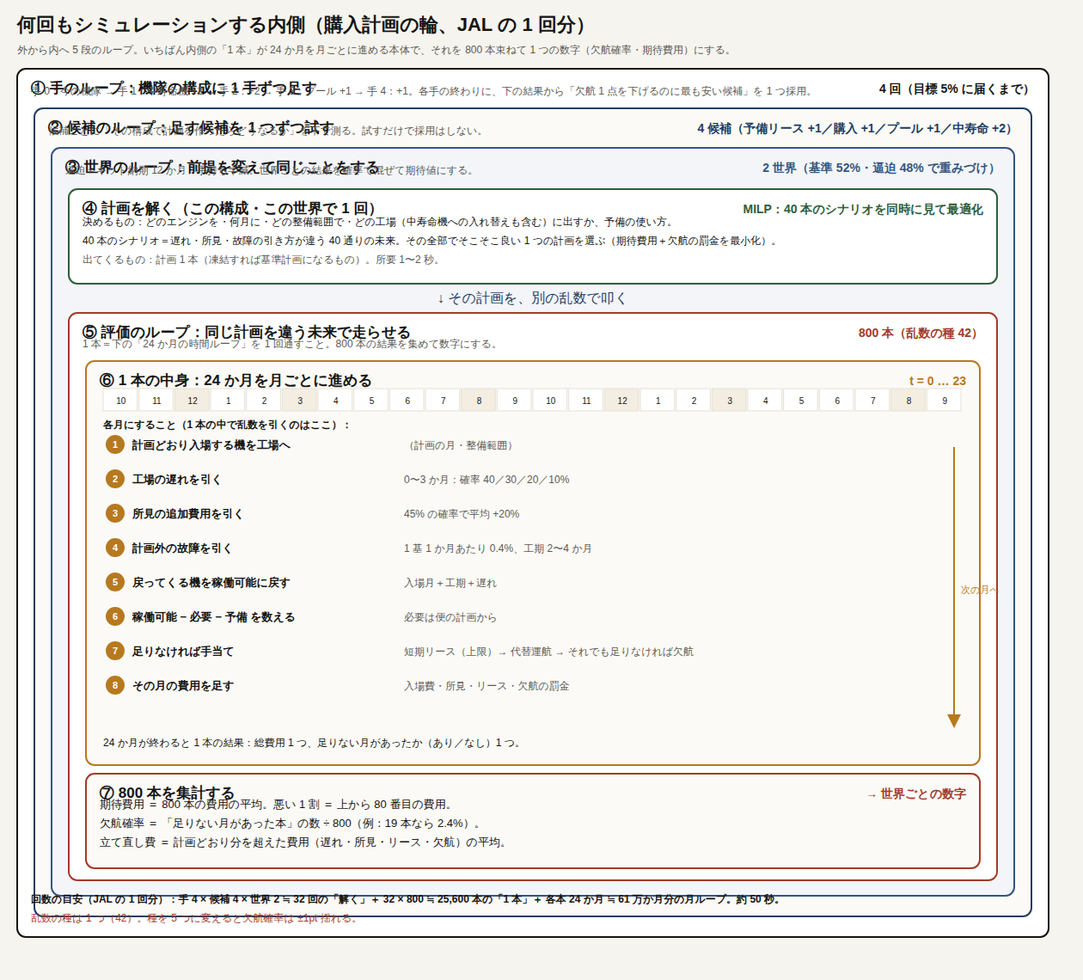
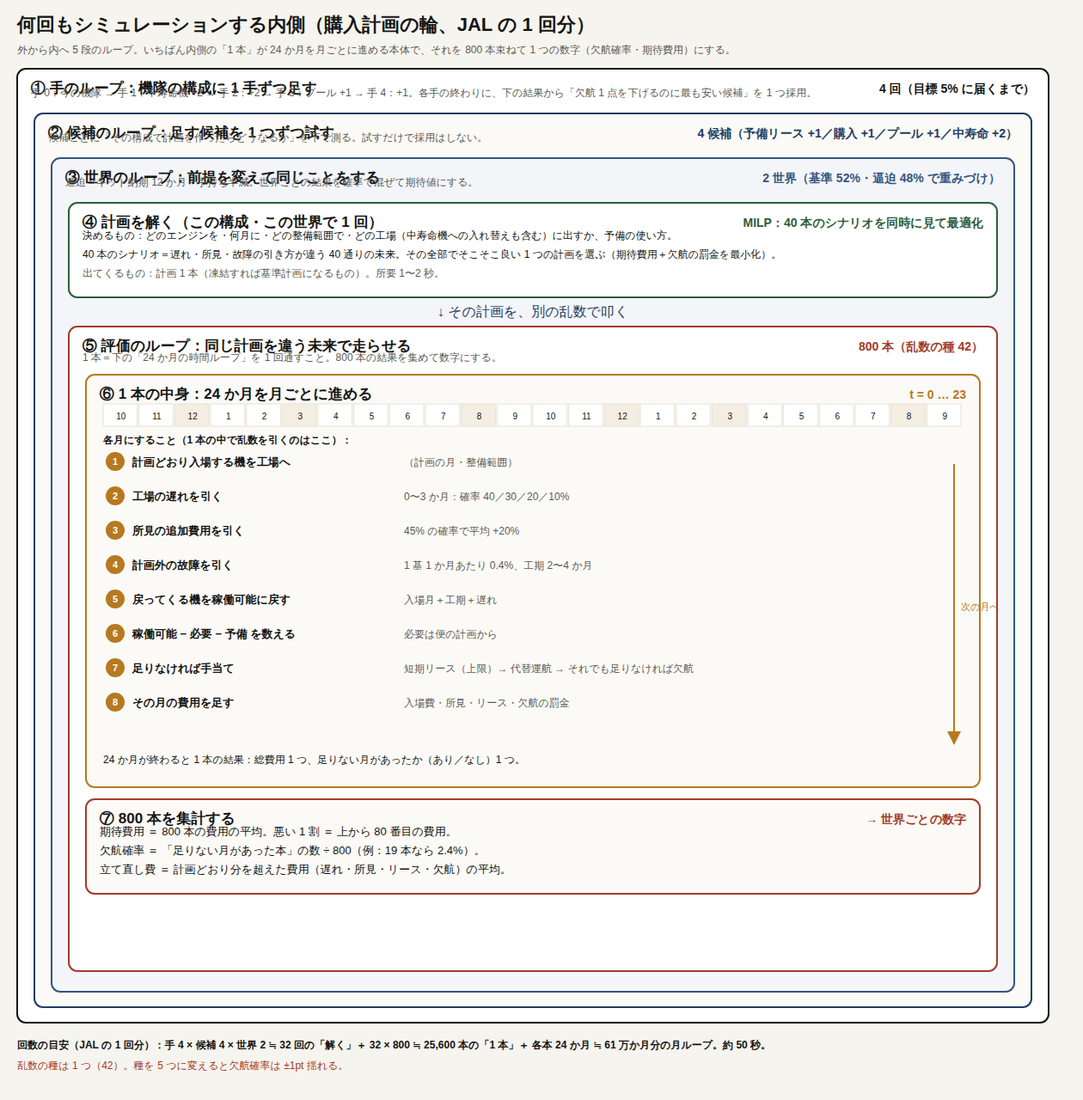
handover: inner-loop figure with frame titles no longer overlapping
Claude-Session: https://claude.ai/code/session_01C7dB8NjrbvR4TfsX9qG3hw

Changed region(s): [[0.0, 0.0, 0.9595, 0.9825]]

diff --git a/examples/engine-shop-selection-mc/handover/03_reports/sim_inner.html b/examples/engine-shop-selection-mc/handover/03_reports/sim_inner.html
@@ -1,1 +1,1 @@
-<!doctype html><html lang="ja"><head><meta charset="utf-8"><style>body{margin:0;background:#f6f4ee}</style></head><body><svg xmlns="http://www.w3.org/2000/svg" viewBox="0 0 1240 1120" width="1240" height="1120" font-family="IBM Plex Sans JP, sans-serif"><rect width="1240" height="1120" fill="#f6f4ee"/><defs><marker id="ah" markerWidth="8" markerHeight="8" refX="7" refY="4" orient="auto"><path d="M0,0 L8,4 L0,8 z" fill="#b7791f"/></marker></defs><text x="20" y="36" font-size="22" fill="#141413" text-anchor="start" font-weight="700">何回もシミュレーションする内側（購入計画の輪、JAL の 1 回分）</text><text x="20" y="62" font-size="12" fill="#5b5a55" text-anchor="start" >外から内へ 5 段のループ。いちばん内側の「1 本」が 24 か月を月ごとに進める本体で、それを 800 本束ねて 1 つの数字（欠航確率・期待費用）にする。</text><rect x="20" y="80" width="1200" height="1010" rx="10" fill="#ffffff" stroke="#141413" stroke-width="2"/><text x="36" y="108" font-size="17" fill="#141413" text-anchor="start" font-weight="700">① 手のループ：機隊の構成に 1 手ずつ足す</text><text x="1204" y="108" font-size="14" fill="#141413" text-anchor="end" font-weight="700">4 回（目標 5% に届くまで）</text><text x="36" y="110" font-size="12" fill="#5b5a55" text-anchor="start" >手 0：今の機隊 → 手 1：中寿命機 +2 → 手 2：+2 → 手 3：プール +1 → 手 4：+1。各手の終わりに、下の結果から「欠航 1 点を下げるのに最も安い候補」を 1 つ採用。</text><rect x="40" y="126" width="1160" height="940" rx="10" fill="#fbfaf6" stroke="#1f3d63" stroke-width="2"/><text x="56" y="154" font-size="17" fill="#141413" text-anchor="start" font-weight="700">② 候補のループ：足す候補を 1 つずつ試す</text><text x="1184" y="154" font-size="14" fill="#1f3d63" text-anchor="end" font-weight="700">4 候補（予備リース +1／購入 +1／プール +1／中寿命 +2）</text><text x="56" y="156" font-size="12" fill="#5b5a55" text-anchor="start" >候補ごとに「その構成で計画を作ったらどうなるか」を下で測る。試すだけで採用はしない。</text><rect x="60" y="172" width="1120" height="870" rx="10" fill="#f3f5f9" stroke="#35557f" stroke-width="2"/><text x="76" y="200" font-size="17" fill="#141413" text-anchor="start" font-weight="700">③ 世界のループ：前提を変えて同じことをする</text><text x="1164" y="200" font-size="14" fill="#35557f" text-anchor="end" font-weight="700">2 世界（基準 52%・逼迫 48% で重みづけ）</text><text x="76" y="202" font-size="12" fill="#5b5a55" text-anchor="start" >逼迫＝キット納期 12 か月・手持ち半減。世界ごとの結果を確率で混ぜて期待値にする。</text><rect x="80" y="220" width="1080" height="110" rx="10" fill="#ffffff" stroke="#2f5d3a" stroke-width="2"/><text x="96" y="248" font-size="17" fill="#141413" text-anchor="start" font-weight="700">④ 計画を解く（この構成・この世界で 1 回）</text><text x="1144" y="248" font-size="14" fill="#2f5d3a" text-anchor="end" font-weight="700">MILP：40 本のシナリオを同時に見て最適化</text><text x="96" y="262" font-size="12" fill="#141413" text-anchor="start" >決めるもの：どのエンジンを・何月に・どの整備範囲で・どの工場（中寿命機への入れ替えも含む）に出すか、予備の使い方。</text><text x="96" y="284" font-size="12" fill="#141413" text-anchor="start" >40 本のシナリオ＝遅れ・所見・故障の引き方が違う 40 通りの未来。その全部でそこそこ良い 1 つの計画を選ぶ（期待費用＋欠航の罰金を最小化）。</text><text x="96" y="306" font-size="12" fill="#5b5a55" text-anchor="start" >出てくるもの：計画 1 本（凍結すれば基準計画になるもの）。所要 1〜2 秒。</text><text x="620" y="352" font-size="16" fill="#1f3d63" text-anchor="middle">↓ その計画を、別の乱数で叩く</text><rect x="80" y="364" width="1080" height="660" rx="10" fill="#ffffff" stroke="#a23b2a" stroke-width="2"/><text x="96" y="392" font-size="17" fill="#141413" text-anchor="start" font-weight="700">⑤ 評価のループ：同じ計画を違う未来で走らせる</text><text x="1144" y="392" font-size="14" fill="#a23b2a" text-anchor="end" font-weight="700">800 本（乱数の種 42）</text><text x="96" y="404" font-size="12" fill="#5b5a55" text-anchor="start" >1 本＝下の「24 か月の時間ループ」を 1 回通すこと。800 本の結果を集めて数字にする。</text><rect x="100" y="420" width="1040" height="470" rx="10" fill="#fbfaf6" stroke="#b7791f" stroke-width="2"/><text x="116" y="448" font-size="17" fill="#141413" text-anchor="start" font-weight="700">⑥ 1 本の中身：24 か月を月ごとに進める</text><text x="1124" y="448" font-size="14" fill="#b7791f" text-anchor="end" font-weight="700">t = 0 … 23</text><rect x="120.0" y="452" width="39.666666666666664" height="26" fill="#ffffff" stroke="#e5e1d6"/><text x="140.83333333333334" y="470" font-size="10" fill="#141413" text-anchor="middle" >10</text><rect x="161.66666666666666" y="452" width="39.666666666666664" height="26" fill="#ffffff" stroke="#e5e1d6"/><text x="182.5" y="470" font-size="10" fill="#141413" text-anchor="middle" >11</text><rect x="203.33333333333331" y="452" width="39.666666666666664" height="26" fill="#f3ede2" stroke="#e5e1d6"/><text x="224.16666666666666" y="470" font-size="10" fill="#141413" text-anchor="middle" >12</text><rect x="245.0" y="452" width="39.666666666666664" height="26" fill="#ffffff" stroke="#e5e1d6"/><text x="265.8333333333333" y="470" font-size="10" fill="#141413" text-anchor="middle" >1</text><rect x="286.66666666666663" y="452" width="39.666666666666664" height="26" fill="#ffffff" stroke="#e5e1d6"/><text x="307.49999999999994" y="470" font-size="10" fill="#141413" text-anchor="middle" >2</text><rect x="328.3333333333333" y="452" width="39.666666666666664" height="26" fill="#f3ede2" stroke="#e5e1d6"/><text x="349.16666666666663" y="470" font-size="10" fill="#141413" text-anchor="middle" >3</text><rect x="370.0" y="452" width="39.666666666666664" height="26" fill="#ffffff" stroke="#e5e1d6"/><text x="390.8333333333333" y="470" font-size="10" fill="#141413" text-anchor="middle" >4</text><rect x="411.66666666666663" y="452" width="39.666666666666664" height="26" fill="#ffffff" stroke="#e5e1d6"/><text x="432.49999999999994" y="470" font-size="10" fill="#141413" text-anchor="middle" >5</text><rect x="453.3333333333333" y="452" width="39.666666666666664" height="26" fill="#ffffff" stroke="#e5e1d6"/><text x="474.16666666666663" y="470" font-size="10" fill="#141413" text-anchor="middle" >6</text><rect x="495.0" y="452" width="39.666666666666664" height="26" fill="#ffffff" stroke="#e5e1d6"/><text x="515.8333333333334" y="470" font-size="10" fill="#141413" text-anchor="middle" >7</text><rect x="536.6666666666666" y="452" width="39.666666666666664" height="26" fill="#f3ede2" stroke="#e5e1d6"/><text x="557.5" y="470" font-size="10" fill="#141413" text-anchor="middle" >8</text><rect x="578.3333333333333" y="452" width="39.666666666666664" height="26" fill="#ffffff" stroke="#e5e1d6"/><text x="599.1666666666666" y="470" font-size="10" fill="#141413" text-anchor="middle" >9</text><rect x="620.0" y="452" width="39.666666666666664" height="26" fill="#ffffff" stroke="#e5e1d6"/><text x="640.8333333333334" y="470" font-size="10" fill="#141413" text-anchor="middle" >10</text><rect x="661.6666666666666" y="452" width="39.666666666666664" height="26" fill="#ffffff" stroke="#e5e1d6"/><text x="682.5" y="470" font-size="10" fill="#141413" text-anchor="middle" >11</text><rect x="703.3333333333333" y="452" width="39.666666666666664" height="26" fill="#f3ede2" stroke="#e5e1d6"/><text x="724.1666666666666" y="470" font-size="10" fill="#141413" text-anchor="middle" >12</text><rect x="745.0" y="452" width="39.666666666666664" height="26" fill="#ffffff" stroke="#e5e1d6"/><text x="765.8333333333334" y="470" font-size="10" fill="#141413" text-anchor="middle" >1</text><rect x="786.6666666666666" y="452" width="39.666666666666664" height="26" fill="#ffffff" stroke="#e5e1d6"/><text x="807.5" y="470" font-size="10" fill="#141413" text-anchor="middle" >2</text><rect x="828.3333333333333" y="452" width="39.666666666666664" height="26" fill="#f3ede2" stroke="#e5e1d6"/><text x="849.1666666666666" y="470" font-size="10" fill="#141413" text-anchor="middle" >3</text><rect x="870.0" y="452" width="39.666666666666664" height="26" fill="#ffffff" stroke="#e5e1d6"/><text x="890.8333333333334" y="470" font-size="10" fill="#141413" text-anchor="middle" >4</text><rect x="911.6666666666666" y="452" width="39.666666666666664" height="26" fill="#ffffff" stroke="#e5e1d6"/><text x="932.5" y="470" font-size="10" fill="#141413" text-anchor="middle" >5</text><rect x="953.3333333333333" y="452" width="39.666666666666664" height="26" fill="#ffffff" stroke="#e5e1d6"/><text x="974.1666666666666" y="470" font-size="10" fill="#141413" text-anchor="middle" >6</text><rect x="995.0" y="452" width="39.666666666666664" height="26" fill="#ffffff" stroke="#e5e1d6"/><text x="1015.8333333333334" y="470" font-size="10" fill="#141413" text-anchor="middle" >7</text><rect x="1036.6666666666665" y="452" width="39.666666666666664" height="26" fill="#f3ede2" stroke="#e5e1d6"/><text x="1057.4999999999998" y="470" font-size="10" fill="#141413" text-anchor="middle" >8</text><rect x="1078.3333333333333" y="452" width="39.666666666666664" height="26" fill="#ffffff" stroke="#e5e1d6"/><text x="1099.1666666666665" y="470" font-size="10" fill="#141413" text-anchor="middle" >9</text><text x="120" y="498" font-size="12" fill="#141413" text-anchor="start" font-weight="700">各月にすること（1 本の中で乱数を引くのはここ）：</text><circle cx="134" cy="517" r="11" fill="#b7791f"/><text x="134" y="521" font-size="11" fill="#fff" text-anchor="middle" font-weight="700">1</text><text x="154" y="522" font-size="13" fill="#141413" text-anchor="start" font-weight="700">計画どおり入場する機を工場へ</text><text x="470" y="522" font-size="12" fill="#5b5a55" text-anchor="start" >（計画の月・整備範囲）</text><circle cx="134" cy="557" r="11" fill="#b7791f"/><text x="134" y="561" font-size="11" fill="#fff" text-anchor="middle" font-weight="700">2</text><text x="154" y="562" font-size="13" fill="#141413" text-anchor="start" font-weight="700">工場の遅れを引く</text><text x="470" y="562" font-size="12" fill="#5b5a55" text-anchor="start" >0〜3 か月：確率 40／30／20／10%</text><circle cx="134" cy="597" r="11" fill="#b7791f"/><text x="134" y="601" font-size="11" fill="#fff" text-anchor="middle" font-weight="700">3</text><text x="154" y="602" font-size="13" fill="#141413" text-anchor="start" font-weight="700">所見の追加費用を引く</text><text x="470" y="602" font-size="12" fill="#5b5a55" text-anchor="start" >45% の確率で平均 +20%</text><circle cx="134" cy="637" r="11" fill="#b7791f"/><text x="134" y="641" font-size="11" fill="#fff" text-anchor="middle" font-weight="700">4</text><text x="154" y="642" font-size="13" fill="#141413" text-anchor="start" font-weight="700">計画外の故障を引く</text><text x="470" y="642" font-size="12" fill="#5b5a55" text-anchor="start" >1 基 1 か月あたり 0.4%、工期 2〜4 か月</text><circle cx="134" cy="677" r="11" fill="#b7791f"/><text x="134" y="681" font-size="11" fill="#fff" text-anchor="middle" font-weight="700">5</text><text x="154" y="682" font-size="13" fill="#141413" text-anchor="start" font-weight="700">戻ってくる機を稼働可能に戻す</text><text x="470" y="682" font-size="12" fill="#5b5a55" text-anchor="start" >入場月＋工期＋遅れ</text><circle cx="134" cy="717" r="11" fill="#b7791f"/><text x="134" y="721" font-size="11" fill="#fff" text-anchor="middle" font-weight="700">6</text><text x="154" y="722" font-size="13" fill="#141413" text-anchor="start" font-weight="700">稼働可能 − 必要 − 予備 を数える</text><text x="470" y="722" font-size="12" fill="#5b5a55" text-anchor="start" >必要は便の計画から</text><circle cx="134" cy="757" r="11" fill="#b7791f"/><text x="134" y="761" font-size="11" fill="#fff" text-anchor="middle" font-weight="700">7</text><text x="154" y="762" font-size="13" fill="#141413" text-anchor="start" font-weight="700">足りなければ手当て</text><text x="470" y="762" font-size="12" fill="#5b5a55" text-anchor="start" >短期リース（上限）→ 代替運航 → それでも足りなければ欠航</text><circle cx="134" cy="797" r="11" fill="#b7791f"/><text x="134" y="801" font-size="11" fill="#fff" text-anchor="middle" font-weight="700">8</text><text x="154" y="802" font-size="13" fill="#141413" text-anchor="start" font-weight="700">その月の費用を足す</text><text x="470" y="802" font-size="12" fill="#5b5a55" text-anchor="start" >入場費・所見・リース・欠航の罰金</text><path d="M 1110,520 L 1110,845" stroke="#b7791f" stroke-width="2" fill="none" marker-end="url(#ah)"/><text x="1118" y="690" font-size="11" fill="#b7791f" text-anchor="start" >次の月へ</text><text x="120" y="868" font-size="12" fill="#141413" text-anchor="start" >24 か月が終わると 1 本の結果：総費用 1 つ、足りない月があったか（あり／なし）1 つ。</text><rect x="100" y="900" width="1040" height="110" rx="10" fill="#fbfaf6" stroke="#a23b2a" stroke-width="2"/><text x="116" y="928" font-size="17" fill="#141413" text-anchor="start" font-weight="700">⑦ 800 本を集計する</text><text x="1124" y="928" font-size="14" fill="#a23b2a" text-anchor="end" font-weight="700">→ 世界ごとの数字</text><text x="116" y="940" font-size="13" fill="#141413" text-anchor="start" >期待費用 ＝ 800 本の費用の平均。悪い 1 割 ＝ 上から 80 番目の費用。</text><text x="116" y="962" font-size="13" fill="#141413" text-anchor="start" >欠航確率 ＝ 「足りない月があった本」の数 ÷ 800（例：19 本なら 2.4%）。</text><text x="116" y="984" font-size="13" fill="#141413" text-anchor="start" >立て直し費 ＝ 計画どおり分を超えた費用（遅れ・所見・リース・欠航）の平均。</text><text x="36" y="1050" font-size="12" fill="#141413" text-anchor="start" font-weight="700">回数の目安（JAL の 1 回分）：手 4 × 候補 4 × 世界 2 ≒ 32 回の「解く」＋ 32 × 800 ≒ 25,600 本の「1 本」＋ 各本 24 か月 ≒ 61 万か月分の月ループ。約 50 秒。</text><text x="36" y="1072" font-size="12" fill="#a23b2a" text-anchor="start" >乱数の種は 1 つ（42）。種を 5 つに変えると欠航確率は ±1pt 揺れる。</text></svg></body></html>
+<!doctype html><html lang="ja"><head><meta charset="utf-8"><style>body{margin:0;background:#f6f4ee}</style></head><body><svg xmlns="http://www.w3.org/2000/svg" viewBox="0 0 1240 1260" width="1240" height="1260" font-family="IBM Plex Sans JP, sans-serif"><rect width="1240" height="1260" fill="#f6f4ee"/><defs><marker id="ah" markerWidth="8" markerHeight="8" refX="7" refY="4" orient="auto"><path d="M0,0 L8,4 L0,8 z" fill="#b7791f"/></marker></defs><text x="20" y="36" font-size="22" fill="#141413" text-anchor="start" font-weight="700">何回もシミュレーションする内側（購入計画の輪、JAL の 1 回分）</text><text x="20" y="62" font-size="12" fill="#5b5a55" text-anchor="start" >外から内へ 5 段のループ。いちばん内側の「1 本」が 24 か月を月ごとに進める本体で、それを 800 本束ねて 1 つの数字（欠航確率・期待費用）にする。</text><rect x="20" y="80" width="1200" height="1110" rx="10" fill="#ffffff" stroke="#141413" stroke-width="2"/><text x="36" y="108" font-size="17" fill="#141413" text-anchor="start" font-weight="700">① 手のループ：機隊の構成に 1 手ずつ足す</text><text x="1204" y="108" font-size="14" fill="#141413" text-anchor="end" font-weight="700">4 回（目標 5% に届くまで）</text><text x="36" y="112" font-size="12" fill="#5b5a55" text-anchor="start" >手 0：今の機隊 → 手 1：中寿命機 +2 → 手 2：+2 → 手 3：プール +1 → 手 4：+1。各手の終わりに、下の結果から「欠航 1 点を下げるのに最も安い候補」を 1 つ採用。</text><rect x="40" y="132" width="1160" height="1040" rx="10" fill="#fbfaf6" stroke="#1f3d63" stroke-width="2"/><text x="56" y="160" font-size="17" fill="#141413" text-anchor="start" font-weight="700">② 候補のループ：足す候補を 1 つずつ試す</text><text x="1184" y="160" font-size="14" fill="#1f3d63" text-anchor="end" font-weight="700">4 候補（予備リース +1／購入 +1／プール +1／中寿命 +2）</text><text x="56" y="164" font-size="12" fill="#5b5a55" text-anchor="start" >候補ごとに「その構成で計画を作ったらどうなるか」を下で測る。試すだけで採用はしない。</text><rect x="60" y="184" width="1120" height="970" rx="10" fill="#f3f5f9" stroke="#35557f" stroke-width="2"/><text x="76" y="212" font-size="17" fill="#141413" text-anchor="start" font-weight="700">③ 世界のループ：前提を変えて同じことをする</text><text x="1164" y="212" font-size="14" fill="#35557f" text-anchor="end" font-weight="700">2 世界（基準 52%・逼迫 48% で重みづけ）</text><text x="76" y="216" font-size="12" fill="#5b5a55" text-anchor="start" >逼迫＝キット納期 12 か月・手持ち半減。世界ごとの結果を確率で混ぜて期待値にする。</text><rect x="80" y="236" width="1080" height="110" rx="10" fill="#ffffff" stroke="#2f5d3a" stroke-width="2"/><text x="96" y="264" font-size="17" fill="#141413" text-anchor="start" font-weight="700">④ 計画を解く（この構成・この世界で 1 回）</text><text x="1144" y="264" font-size="14" fill="#2f5d3a" text-anchor="end" font-weight="700">MILP：40 本のシナリオを同時に見て最適化</text><text x="96" y="278" font-size="12" fill="#141413" text-anchor="start" >決めるもの：どのエンジンを・何月に・どの整備範囲で・どの工場（中寿命機への入れ替えも含む）に出すか、予備の使い方。</text><text x="96" y="300" font-size="12" fill="#141413" text-anchor="start" >40 本のシナリオ＝遅れ・所見・故障の引き方が違う 40 通りの未来。その全部でそこそこ良い 1 つの計画を選ぶ（期待費用＋欠航の罰金を最小化）。</text><text x="96" y="322" font-size="12" fill="#5b5a55" text-anchor="start" >出てくるもの：計画 1 本（凍結すれば基準計画になるもの）。所要 1〜2 秒。</text><text x="620" y="368" font-size="16" fill="#1f3d63" text-anchor="middle">↓ その計画を、別の乱数で叩く</text><rect x="80" y="380" width="1080" height="750" rx="10" fill="#ffffff" stroke="#a23b2a" stroke-width="2"/><text x="96" y="408" font-size="17" fill="#141413" text-anchor="start" font-weight="700">⑤ 評価のループ：同じ計画を違う未来で走らせる</text><text x="1144" y="408" font-size="14" fill="#a23b2a" text-anchor="end" font-weight="700">800 本（乱数の種 42）</text><text x="96" y="420" font-size="12" fill="#5b5a55" text-anchor="start" >1 本＝下の「24 か月の時間ループ」を 1 回通すこと。800 本の結果を集めて数字にする。</text><rect x="100" y="436" width="1040" height="480" rx="10" fill="#fbfaf6" stroke="#b7791f" stroke-width="2"/><text x="116" y="464" font-size="17" fill="#141413" text-anchor="start" font-weight="700">⑥ 1 本の中身：24 か月を月ごとに進める</text><text x="1124" y="464" font-size="14" fill="#b7791f" text-anchor="end" font-weight="700">t = 0 … 23</text><rect x="120.0" y="470" width="39.666666666666664" height="26" fill="#ffffff" stroke="#e5e1d6"/><text x="140.83333333333334" y="488" font-size="10" fill="#141413" text-anchor="middle" >10</text><rect x="161.66666666666666" y="470" width="39.666666666666664" height="26" fill="#ffffff" stroke="#e5e1d6"/><text x="182.5" y="488" font-size="10" fill="#141413" text-anchor="middle" >11</text><rect x="203.33333333333331" y="470" width="39.666666666666664" height="26" fill="#f3ede2" stroke="#e5e1d6"/><text x="224.16666666666666" y="488" font-size="10" fill="#141413" text-anchor="middle" >12</text><rect x="245.0" y="470" width="39.666666666666664" height="26" fill="#ffffff" stroke="#e5e1d6"/><text x="265.8333333333333" y="488" font-size="10" fill="#141413" text-anchor="middle" >1</text><rect x="286.66666666666663" y="470" width="39.666666666666664" height="26" fill="#ffffff" stroke="#e5e1d6"/><text x="307.49999999999994" y="488" font-size="10" fill="#141413" text-anchor="middle" >2</text><rect x="328.3333333333333" y="470" width="39.666666666666664" height="26" fill="#f3ede2" stroke="#e5e1d6"/><text x="349.16666666666663" y="488" font-size="10" fill="#141413" text-anchor="middle" >3</text><rect x="370.0" y="470" width="39.666666666666664" height="26" fill="#ffffff" stroke="#e5e1d6"/><text x="390.8333333333333" y="488" font-size="10" fill="#141413" text-anchor="middle" >4</text><rect x="411.66666666666663" y="470" width="39.666666666666664" height="26" fill="#ffffff" stroke="#e5e1d6"/><text x="432.49999999999994" y="488" font-size="10" fill="#141413" text-anchor="middle" >5</text><rect x="453.3333333333333" y="470" width="39.666666666666664" height="26" fill="#ffffff" stroke="#e5e1d6"/><text x="474.16666666666663" y="488" font-size="10" fill="#141413" text-anchor="middle" >6</text><rect x="495.0" y="470" width="39.666666666666664" height="26" fill="#ffffff" stroke="#e5e1d6"/><text x="515.8333333333334" y="488" font-size="10" fill="#141413" text-anchor="middle" >7</text><rect x="536.6666666666666" y="470" width="39.666666666666664" height="26" fill="#f3ede2" stroke="#e5e1d6"/><text x="557.5" y="488" font-size="10" fill="#141413" text-anchor="middle" >8</text><rect x="578.3333333333333" y="470" width="39.666666666666664" height="26" fill="#ffffff" stroke="#e5e1d6"/><text x="599.1666666666666" y="488" font-size="10" fill="#141413" text-anchor="middle" >9</text><rect x="620.0" y="470" width="39.666666666666664" height="26" fill="#ffffff" stroke="#e5e1d6"/><text x="640.8333333333334" y="488" font-size="10" fill="#141413" text-anchor="middle" >10</text><rect x="661.6666666666666" y="470" width="39.666666666666664" height="26" fill="#ffffff" stroke="#e5e1d6"/><text x="682.5" y="488" font-size="10" fill="#141413" text-anchor="middle" >11</text><rect x="703.3333333333333" y="470" width="39.666666666666664" height="26" fill="#f3ede2" stroke="#e5e1d6"/><text x="724.1666666666666" y="488" font-size="10" fill="#141413" text-anchor="middle" >12</text><rect x="745.0" y="470" width="39.666666666666664" height="26" fill="#ffffff" stroke="#e5e1d6"/><text x="765.8333333333334" y="488" font-size="10" fill="#141413" text-anchor="middle" >1</text><rect x="786.6666666666666" y="470" width="39.666666666666664" height="26" fill="#ffffff" stroke="#e5e1d6"/><text x="807.5" y="488" font-size="10" fill="#141413" text-anchor="middle" >2</text><rect x="828.3333333333333" y="470" width="39.666666666666664" height="26" fill="#f3ede2" stroke="#e5e1d6"/><text x="849.1666666666666" y="488" font-size="10" fill="#141413" text-anchor="middle" >3</text><rect x="870.0" y="470" width="39.666666666666664" height="26" fill="#ffffff" stroke="#e5e1d6"/><text x="890.8333333333334" y="488" font-size="10" fill="#141413" text-anchor="middle" >4</text><rect x="911.6666666666666" y="470" width="39.666666666666664" height="26" fill="#ffffff" stroke="#e5e1d6"/><text x="932.5" y="488" font-size="10" fill="#141413" text-anchor="middle" >5</text><rect x="953.3333333333333" y="470" width="39.666666666666664" height="26" fill="#ffffff" stroke="#e5e1d6"/><text x="974.1666666666666" y="488" font-size="10" fill="#141413" text-anchor="middle" >6</text><rect x="995.0" y="470" width="39.666666666666664" height="26" fill="#ffffff" stroke="#e5e1d6"/><text x="1015.8333333333334" y="488" font-size="10" fill="#141413" text-anchor="middle" >7</text><rect x="1036.6666666666665" y="470" width="39.666666666666664" height="26" fill="#f3ede2" stroke="#e5e1d6"/><text x="1057.4999999999998" y="488" font-size="10" fill="#141413" text-anchor="middle" >8</text><rect x="1078.3333333333333" y="470" width="39.666666666666664" height="26" fill="#ffffff" stroke="#e5e1d6"/><text x="1099.1666666666665" y="488" font-size="10" fill="#141413" text-anchor="middle" >9</text><text x="120" y="516" font-size="12" fill="#141413" text-anchor="start" font-weight="700">各月にすること（1 本の中で乱数を引くのはここ）：</text><circle cx="134" cy="537" r="11" fill="#b7791f"/><text x="134" y="541" font-size="11" fill="#fff" text-anchor="middle" font-weight="700">1</text><text x="154" y="542" font-size="13" fill="#141413" text-anchor="start" font-weight="700">計画どおり入場する機を工場へ</text><text x="470" y="542" font-size="12" fill="#5b5a55" text-anchor="start" >（計画の月・整備範囲）</text><circle cx="134" cy="577" r="11" fill="#b7791f"/><text x="134" y="581" font-size="11" fill="#fff" text-anchor="middle" font-weight="700">2</text><text x="154" y="582" font-size="13" fill="#141413" text-anchor="start" font-weight="700">工場の遅れを引く</text><text x="470" y="582" font-size="12" fill="#5b5a55" text-anchor="start" >0〜3 か月：確率 40／30／20／10%</text><circle cx="134" cy="617" r="11" fill="#b7791f"/><text x="134" y="621" font-size="11" fill="#fff" text-anchor="middle" font-weight="700">3</text><text x="154" y="622" font-size="13" fill="#141413" text-anchor="start" font-weight="700">所見の追加費用を引く</text><text x="470" y="622" font-size="12" fill="#5b5a55" text-anchor="start" >45% の確率で平均 +20%</text><circle cx="134" cy="657" r="11" fill="#b7791f"/><text x="134" y="661" font-size="11" fill="#fff" text-anchor="middle" font-weight="700">4</text><text x="154" y="662" font-size="13" fill="#141413" text-anchor="start" font-weight="700">計画外の故障を引く</text><text x="470" y="662" font-size="12" fill="#5b5a55" text-anchor="start" >1 基 1 か月あたり 0.4%、工期 2〜4 か月</text><circle cx="134" cy="697" r="11" fill="#b7791f"/><text x="134" y="701" font-size="11" fill="#fff" text-anchor="middle" font-weight="700">5</text><text x="154" y="702" font-size="13" fill="#141413" text-anchor="start" font-weight="700">戻ってくる機を稼働可能に戻す</text><text x="470" y="702" font-size="12" fill="#5b5a55" text-anchor="start" >入場月＋工期＋遅れ</text><circle cx="134" cy="737" r="11" fill="#b7791f"/><text x="134" y="741" font-size="11" fill="#fff" text-anchor="middle" font-weight="700">6</text><text x="154" y="742" font-size="13" fill="#141413" text-anchor="start" font-weight="700">稼働可能 − 必要 − 予備 を数える</text><text x="470" y="742" font-size="12" fill="#5b5a55" text-anchor="start" >必要は便の計画から</text><circle cx="134" cy="777" r="11" fill="#b7791f"/><text x="134" y="781" font-size="11" fill="#fff" text-anchor="middle" font-weight="700">7</text><text x="154" y="782" font-size="13" fill="#141413" text-anchor="start" font-weight="700">足りなければ手当て</text><text x="470" y="782" font-size="12" fill="#5b5a55" text-anchor="start" >短期リース（上限）→ 代替運航 → それでも足りなければ欠航</text><circle cx="134" cy="817" r="11" fill="#b7791f"/><text x="134" y="821" font-size="11" fill="#fff" text-anchor="middle" font-weight="700">8</text><text x="154" y="822" font-size="13" fill="#141413" text-anchor="start" font-weight="700">その月の費用を足す</text><text x="470" y="822" font-size="12" fill="#5b5a55" text-anchor="start" >入場費・所見・リース・欠航の罰金</text><path d="M 1110,540 L 1110,865" stroke="#b7791f" stroke-width="2" fill="none" marker-end="url(#ah)"/><text x="1118" y="710" font-size="11" fill="#b7791f" text-anchor="start" >次の月へ</text><text x="120" y="888" font-size="12" fill="#141413" text-anchor="start" >24 か月が終わると 1 本の結果：総費用 1 つ、足りない月があったか（あり／なし）1 つ。</text><rect x="100" y="930" width="1040" height="110" rx="10" fill="#fbfaf6" stroke="#a23b2a" stroke-width="2"/><text x="116" y="958" font-size="17" fill="#141413" text-anchor="start" font-weight="700">⑦ 800 本を集計する</text><text x="1124" y="958" font-size="14" fill="#a23b2a" text-anchor="end" font-weight="700">→ 世界ごとの数字</text><text x="116" y="972" font-size="13" fill="#141413" text-anchor="start" >期待費用 ＝ 800 本の費用の平均。悪い 1 割 ＝ 上から 80 番目の費用。</text><text x="116" y="994" font-size="13" fill="#141413" text-anchor="start" >欠航確率 ＝ 「足りない月があった本」の数 ÷ 800（例：19 本なら 2.4%）。</text><text x="116" y="1016" font-size="13" fill="#141413" text-anchor="start" >立て直し費 ＝ 計画どおり分を超えた費用（遅れ・所見・リース・欠航）の平均。</text><text x="20" y="1220" font-size="12" fill="#141413" text-anchor="start" font-weight="700">回数の目安（JAL の 1 回分）：手 4 × 候補 4 × 世界 2 ≒ 32 回の「解く」＋ 32 × 800 ≒ 25,600 本の「1 本」＋ 各本 24 か月 ≒ 61 万か月分の月ループ。約 50 秒。</text><text x="20" y="1244" font-size="12" fill="#a23b2a" text-anchor="start" >乱数の種は 1 つ（42）。種を 5 つに変えると欠航確率は ±1pt 揺れる。</text></svg></body></html>
